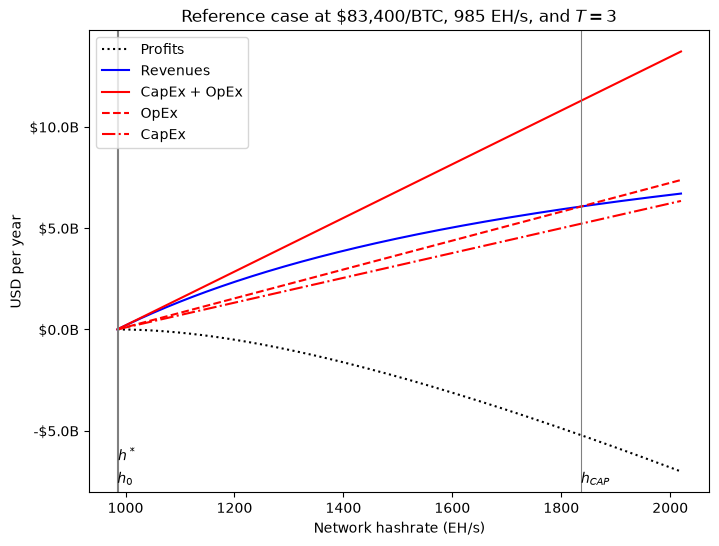
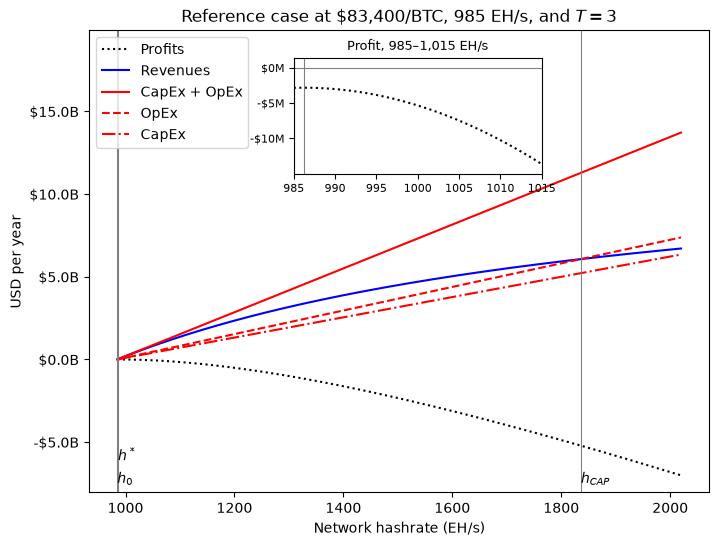
feat: add zoomed profit inset to reference plot
Shows profit over h0 to h0 + 30 EH/s in $M/yr, where the main axis
(billions) renders it as flat.

diff --git a/plotReference.py b/plotReference.py
@@ -45,6 +45,22 @@ def plotReference(refTechData, refMktData, path):
     ax.yaxis.set_major_formatter(lambda y, _: f"{'-' if y < 0 else ''}\\${abs(y) / 1e9:,.1f}B")
     ax.set_title(f"Reference case at \\${btc:,.0f}/BTC, {h0 / 1000:,.0f} EH/s, and $T={amz}$")
     ax.legend(loc="upper left")
+
+    zoom_h = np.linspace(h0, h0 + 30_000, 300)
+    zr, zo, zc = profitTerms(zoom_h, refTechData, refMktData)
+    zoom_profit = zr - zo - zc
+    ax.set_ylim(top=1.45 * (opex + capex).max())
+    inset = ax.inset_axes([0.33, 0.69, 0.4, 0.25])
+    inset.plot(zoom_h / 1000, zoom_profit, "k:")
+    inset.axhline(0, color="grey", lw=0.8)
+    for label, x in shown:
+        if x <= zoom_h[-1]:
+            inset.axvline(x / 1000, color="grey", lw=0.8)
+    inset.set_xlim(zoom_h[0] / 1000, zoom_h[-1] / 1000)
+    inset.set_ylim(1.1 * zoom_profit.min(), 0.1 * abs(zoom_profit.min()))
+    inset.yaxis.set_major_formatter(lambda y, _: f"{'-' if y < 0 else ''}\\${abs(y) / 1e6:,.0f}M")
+    inset.tick_params(labelsize=8)
+    inset.set_title(f"Profit, {zoom_h[0] / 1000:,.0f}–{zoom_h[-1] / 1000:,.0f} EH/s", fontsize=9)
     fig.savefig(path, dpi=100, bbox_inches="tight")
 
 
